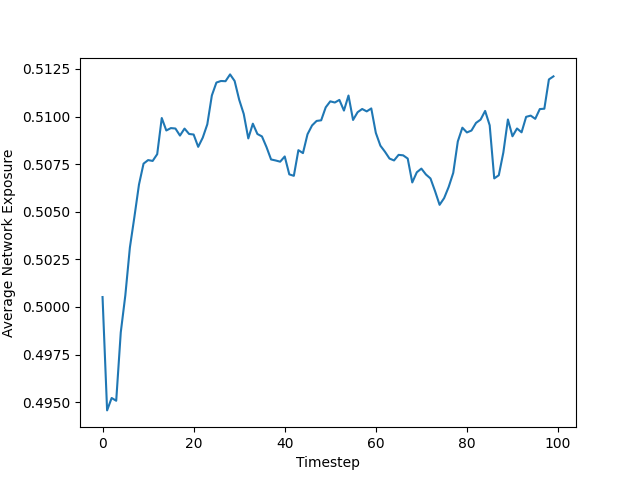
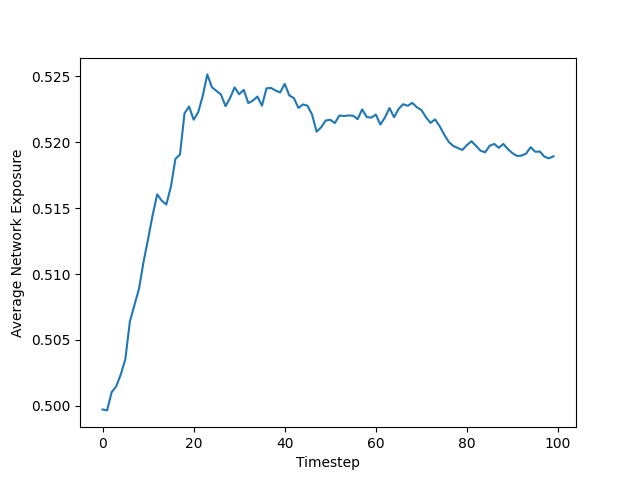
Adding some new features

diff --git a/src/util.py b/src/util.py
@@ -1,6 +1,7 @@
 import matplotlib.pyplot as plt; plt.close('all')
 import networkx as nx
 from matplotlib.animation import FuncAnimation
+from matplotlib.colors import Normalize
 import random as rd
 import numpy as np
 from collections import deque
@@ -93,54 +94,42 @@ def animate_nodes(G, node_colors, scalarmappaple, colormap, pos=None, *args, **k
     animation = FuncAnimation(fig, update, interval=50, frames=len(node_colors[:,0]), blit=True)
     return animation
 
-def animate_nodes_lae(G, node_colors, scalarmappaple, colormap, pos=None, *args, **kwargs):
-
-    plt.figure(figsize=(20, 15))
-
+def animate_nodes_lae(graph, node_colors, scalarmappaple, colormap, pos=None, node_size=8, *args, **kwargs):
     fig, ax = plt.subplots() 
     plt.title('Polya Urn Network')
 
-    # define graph layout if None given
+    # Define graph layout if None given
     if pos is None:
-        pos = nx.spring_layout(G, k = 0.08)
+        pos = nx.spring_layout(graph, k=0.07)
 
-    # draw graph
-    #plt.title('Polya Urn Network')
-    #cbar = plt.colorbar(scalarmappaple)
-    #cbar.set_label('Brand awareness')
-        
-    #initial
-    nodes = nx.draw_networkx_nodes(G, pos, node_color=node_colors[0, :], node_size = 8, cmap=colormap, ax=ax, edgecolors=node_colors[0, :],  *args, **kwargs)
-    edges = nx.draw_networkx_edges(G, pos, width = 0.25, ax=ax, *args, **kwargs)
+    # Draw edges
+    nx.draw_networkx_edges(graph, pos, width=0.25, ax=ax, *args, **kwargs)
 
-    scalarmappaple.set_array(node_colors[0, :])
+    # Extract node positions
+    node_x = [pos[node][0] for node in graph.nodes()]
+    node_y = [pos[node][1] for node in graph.nodes()]
 
-    cbar = fig.colorbar(scalarmappaple, ax=ax)  # Specify the ax argument
+    # Normalize colors
+    norm = Normalize(vmin=min(node_colors[0]), vmax=max(node_colors[0]))
+
+    # Compute node colors
+    rgba_colors = [colormap(norm(color)) for color in node_colors[0]]
+
+    # Draw nodes with custom colors and size
+    nodes = ax.scatter(node_x, node_y, c=rgba_colors, s=node_size)
+
+    # Set color bar
+    scalarmappaple.set_array(node_colors[0])
+    cbar = fig.colorbar(scalarmappaple, ax=ax)
     cbar.set_label('Brand awareness', fontsize=12)
 
-    #rgba_array_i = scalarmappaple.to_rgba(node_colors[0,:])
-    #nodes = nx.draw_networkx_nodes(G, pos, node_color=rgba_array_i, cmap=colormap , *args, **kwargs)
-    #nodes = nx.draw_networkx_nodes(G, pos, cmap=colormap , *args, **kwargs)
-    #edges = nx.draw_networkx_edges(G, pos, *args, **kwargs)
-    #nodes.set_cmap(colormap)
-    #plt.axis('off')
-
-    #nodes.set_array(node_colors[0])
+    # Update function to change node colors
     def update(ii):
-        # nodes are just markers returned by plt.scatter;
-        # node color can hence be changed in the same way like marker colors\
-        rgba_array = scalarmappaple.to_rgba(node_colors[ii,:])
-        nodes.set_color(rgba_array)
-        #nodes = nx.draw_networkx_nodes(G, pos, node_color=rgba_array, cmap=colormap , *args, **kwargs)
-        #test1 = np.expand_dims(test, axis=1)
-        #test2 = np.broadcast_to(test1, (test1.shape[0], 4))
-        #nodes.set_facecolor(test2)
-        #nodes.set_array(test)
+        rgba_colors = [colormap(norm(color)) for color in node_colors[ii]]
+        nodes.set_color(rgba_colors)
         return nodes,
 
-    #fig = plt.gcf()
-    frames=len(node_colors[:,0])
-    #animation = FuncAnimation(fig, update, interval=50, frames=len(node_colors[:,0]), blit=True)
+    frames = len(node_colors)
     animation = FuncAnimation(fig, update, frames=frames, blit=True)
     plt.close()
     return animation
@@ -172,7 +161,7 @@ def update_super(graph):
             graph.nodes[node]['super_blue'] += blue
             graph.nodes[node]['super_total'] += red + blue
 
-def pull_ball(graph, delta_red, delta_blue):
+def pull_ball(graph, delta_red, delta_blue, i, init_red_list, init_blue_list):
     """
     Function to simulate pulling of a ball from all urns. Updates only local urns.
 
@@ -189,6 +178,7 @@ def pull_ball(graph, delta_red, delta_blue):
     """
     num_nodes = graph.number_of_nodes()
     for node in range(num_nodes):
+
         # Remove balls that have expired
         if graph.graph['memory_flag'] == True:
             if len(graph.nodes[node]['history']) == graph.nodes[node]['memory']:
@@ -197,11 +187,14 @@ def pull_ball(graph, delta_red, delta_blue):
                 graph.nodes[node]['red'] -= disapearing[0]
                 graph.nodes[node]['blue'] -= disapearing[1]
                 graph.nodes[node]['total'] -= sum(disapearing)
-                #testing#
-                '''if disapearing > 0:
-                    graph.nodes[node]['red'] -= disapearing
-                else:
-                    graph.nodes[node]['blue'] -= 1'''
+
+        # Remove initial conditions
+        if i == graph.nodes[node]['memory'] and graph.graph['remove_init_flag'] == True:
+                graph.nodes[node]['red'] -= init_red_list[node]
+                graph.nodes[node]['blue'] -= init_blue_list[node]
+                graph.nodes[node]['total'] -= (init_red_list[node] + init_blue_list[node])
+
+        # Pulling process
         random_pull = rd.uniform(0,1)
         threshold = graph.nodes[node]['super_red']/graph.nodes[node]['super_total']
         if random_pull < threshold: # Pulled a red ball
@@ -214,8 +207,10 @@ def pull_ball(graph, delta_red, delta_blue):
             graph.nodes[node]['total'] += delta_blue
             if graph.graph['memory_flag'] == True:
                 graph.nodes[node]['history'].append([0,1]) # Add blue ball indicator to history
-        graph.nodes[node]['health'].append((graph.nodes[node]['super_red']/graph.nodes[node]['super_total'])) # Update the health of each node
-        #graph.nodes[node]['health'].append(int((graph.nodes[node]['red']/graph.nodes[node]['total'])*100)) # Update the health of each node
+
+        # Update the health of each node
+        graph.nodes[node]['health'].append((graph.nodes[node]['super_red']/graph.nodes[node]['super_total'])) 
+        
 
 def init_urns(graph, init_red, init_blue, memory=5, memory_list=None, init_blue_list=None, init_red_list=None):
     """
@@ -255,7 +250,7 @@ def init_urns(graph, init_red, init_blue, memory=5, memory_list=None, init_blue_
                 graph.nodes[node]['memory'] = memory
             graph.nodes[node]['history'] = deque(maxlen=int(graph.nodes[node]['memory'])) # Deque to store information on which balls to be removed at what times
             
-def generate_graph(adj_matrix_path, memory_flag=True, skiprows=0):
+def generate_graph(adj_matrix_path, memory_flag=True, remove_init_flag=True, skiprows=0):
     """
     Function to generate networkx graph object from adjacency matrix.
 
@@ -272,6 +267,7 @@ def generate_graph(adj_matrix_path, memory_flag=True, skiprows=0):
     np_array = np.loadtxt(open(adj_matrix_path, "rb"), delimiter=",", skiprows=skiprows)
     G = nx.from_numpy_array(np_array)
     G.graph['memory_flag'] = memory_flag
+    G.graph['remove_init_flag'] = remove_init_flag
     return G
 
 def heuristic(degree, centrality, susceptibility, alpha, beta, gamma):
@@ -340,9 +336,37 @@ def inject_uniform_red(G, scores, budget, topn=15):
             print("warning, no balls being added because budget being spread too thin")
         else:
             if G.graph['memory_flag'] == True:
-                G.nodes[i]['history'][-1][0] += int(budget / topn)
+                G.nodes[i]['history'][-1][0] += budget / topn
+                G.nodes[i]['red'] += budget / topn
             else:
-                G.nodes[i]['red'] += int(budget / topn)
+                G.nodes[i]['red'] += budget / topn
+            G.nodes[i]['total'] += budget / topn
+
+def inject_uniform_blue(G, scores, budget_b):
+    """
+    Function to inject red balls to urns with the top n scores uniformly
+
+    Args:
+        graph: Networkx graph structure.
+        health: Array of health values at each timestep.
+
+    Returns:
+        None.
+
+    Raises:
+        None.
+    """
+    num = len(scores[2,:])
+    for i in range(num):
+        if budget_b / num < 1:
+            print("warning, no balls being added because budget being spread too thin")
+        else:
+            if G.graph['memory_flag'] == True:
+                G.nodes[i]['history'][-1][0] += budget_b / num 
+                G.nodes[i]['blue'] += budget_b / num
+            else:
+                G.nodes[i]['blue'] += budget_b / num
+            G.nodes[i]['total'] += budget_b / num
 
 def inject_relative_red(G, scores, budget):
     """
@@ -366,14 +390,35 @@ def inject_relative_red(G, scores, budget):
             #print("warning, no balls being added because budget being spread too thin")
         else:
             if G.graph['memory_flag'] == True:
-                amount = int(budget * relative)
+                amount = budget * relative
                 G.nodes[i]['history'][-1][0] += amount
                 G.nodes[i]['red'] += amount
                 G.nodes[i]['total'] += amount
             else:
-                G.nodes[i]['red'] += int(budget * relative)
+                G.nodes[i]['red'] += budget * relative
                 G.nodes[i]['total'] += amount
 
+def plot_health_variance(G, health, alpha=1, beta=1, gamma=1):
+    """
+    Function to plot the overall "health" of the network over all timesteps
+
+    Args:
+        graph: Networkx graph structure.
+        health: Array of health values at each timestep.
+
+    Returns:
+        None.
+
+    Raises:
+        None.
+    """
+    avg_health = np.var(health[:,:-1]*100, axis=0)
+    plt.plot(avg_health)
+    plt.xlabel('Timestep')
+    plt.ylabel('Variance of Network Exposure')
+
+    plt.savefig(f"./figures/health_variance_plot_alpha{alpha}_beta{beta}_gamma{gamma}")
+    plt.show()
 
 def plot_health(G, health, alpha=1, beta=1, gamma=1):
     """
@@ -395,8 +440,7 @@ def plot_health(G, health, alpha=1, beta=1, gamma=1):
     plt.xlabel('Timestep')
     plt.ylabel('Average Network Exposure')
 
-    
-    plt.savefig(f"./figures/health_plot_alpha{beta}_beta{beta}_gamma{gamma}")
+    plt.savefig(f"./figures/health_plot_alpha{alpha}_beta{beta}_gamma{gamma}")
     plt.show()
 
 

diff --git a/src/simulation.py b/src/simulation.py
@@ -5,11 +5,12 @@ from matplotlib.animation import FuncAnimation
 import random as rd
 import matplotlib.cm as cm
 import matplotlib.colors as mcolors
-from util import animate_nodes, update_super, pull_ball, init_urns, generate_graph, pyvis_animation, get_scores, plot_health, inject_uniform_red, inject_relative_red, combine_graphs, animate_nodes_lae
+from util import animate_nodes, update_super, pull_ball, init_urns, generate_graph, pyvis_animation, get_scores, plot_health, inject_uniform_red, inject_relative_red, combine_graphs, animate_nodes_lae, inject_uniform_blue, plot_health_variance
 
 #graph = nx.complete_graph(total_nodes)
 circles_flag = True
 memory_flag = True
+remove_init_flag = True
 
 if circles_flag:
     circle_files_path = 'circles'
@@ -20,6 +21,7 @@ if circles_flag:
     # combine all graphs into one
     graph = combine_graphs(circle_files_path, combined_file_path)
     graph.graph['memory_flag'] = memory_flag
+    graph.graph['remove_init_flag'] = remove_init_flag
 
     # count the number of nodes in the graph to double check all circles are being brought in 
     num_nodes = graph.number_of_nodes()
@@ -31,14 +33,16 @@ else:
 
 
 time_steps = 100
-delta_red = 1
-delta_blue = 1
-init_red=10
-init_blue=10
+delta_red = 2
+delta_blue = 2
+init_red = 10
+init_blue = 10
 budget = 500
-alpha = 1
+budget_b = 500
+alpha = 10
 beta = 1
 gamma = 1
+
 
 memory_list = np.random.default_rng().normal(9, 3, size=num_nodes).astype(int)
 memory_list = np.where(memory_list<=0, 1, memory_list)
@@ -56,12 +60,12 @@ closeness = nx.closeness_centrality(graph) # Calculate closeness once and then j
 for i in range(time_steps):
     update_super(graph)
     scores = get_scores(graph, i, closeness, alpha, beta, gamma, quantize=False)
-    #inject_uniform_red(graph, scores, budget)
-    if i < 2:
+    if i < 1:
         print("Test")
     else:
-        inject_relative_red(graph, scores, budget)    
-    pull_ball(graph, delta_red, delta_blue)
+        inject_relative_red(graph, scores, budget)
+        inject_uniform_blue(graph, scores, budget)    
+    pull_ball(graph, delta_red, delta_blue, i, init_red_list, init_blue_list)
 
 node_to_index = {node: i for i, node in enumerate(graph.nodes())}
 
@@ -89,7 +93,7 @@ node_colors_template = np.random.randint(0, 100, size=(time_steps, num_nodes))
 
 node_colors_test = np.ones((time_steps, num_nodes))
 
-#normalize = mcolors.Normalize(vmin=health.min(), vmax=health.max())
+#normalize = mcolors.Normalize(vmin=health.min(), vmax=health.max())gith
 normalize = mcolors.Normalize(vmin=0, vmax=1)
 #colormap = cm.jet
 colormap = mcolors.LinearSegmentedColormap.from_list("MyCmapName",["b","r"])
@@ -98,11 +102,13 @@ colormap = plt.colormaps.get_cmap('seismic')
 scalarmappaple = cm.ScalarMappable(norm=normalize, cmap=colormap)
 scalarmappaple.set_array(health[0,:])
 
-plot_health(graph, health)
+#plot_health(graph, health, alpha, beta, gamma)
+plot_health_variance(graph, health, alpha, beta, gamma)
 
-#animation = animate_nodes_lae(graph, node_colors_r, scalarmappaple, colormap)
-#animation.save(f"gifs/sim_alpha{beta}_beta{beta}_gamma{gamma}.gif", writer='imagemagick', savefig_kwargs={'facecolor':'white'}, fps=1)
+animation = animate_nodes_lae(graph, node_colors_r, scalarmappaple, colormap)
+animation.save(f"gifs/sim_alpha{alpha}_beta{beta}_gamma{gamma}.gif", writer='imagemagick', savefig_kwargs={'facecolor':'white'}, fps=1)
 
+test = 1
 """
 health = np.empty((num_nodes, time_steps+1))
 for node in range(num_nodes):
